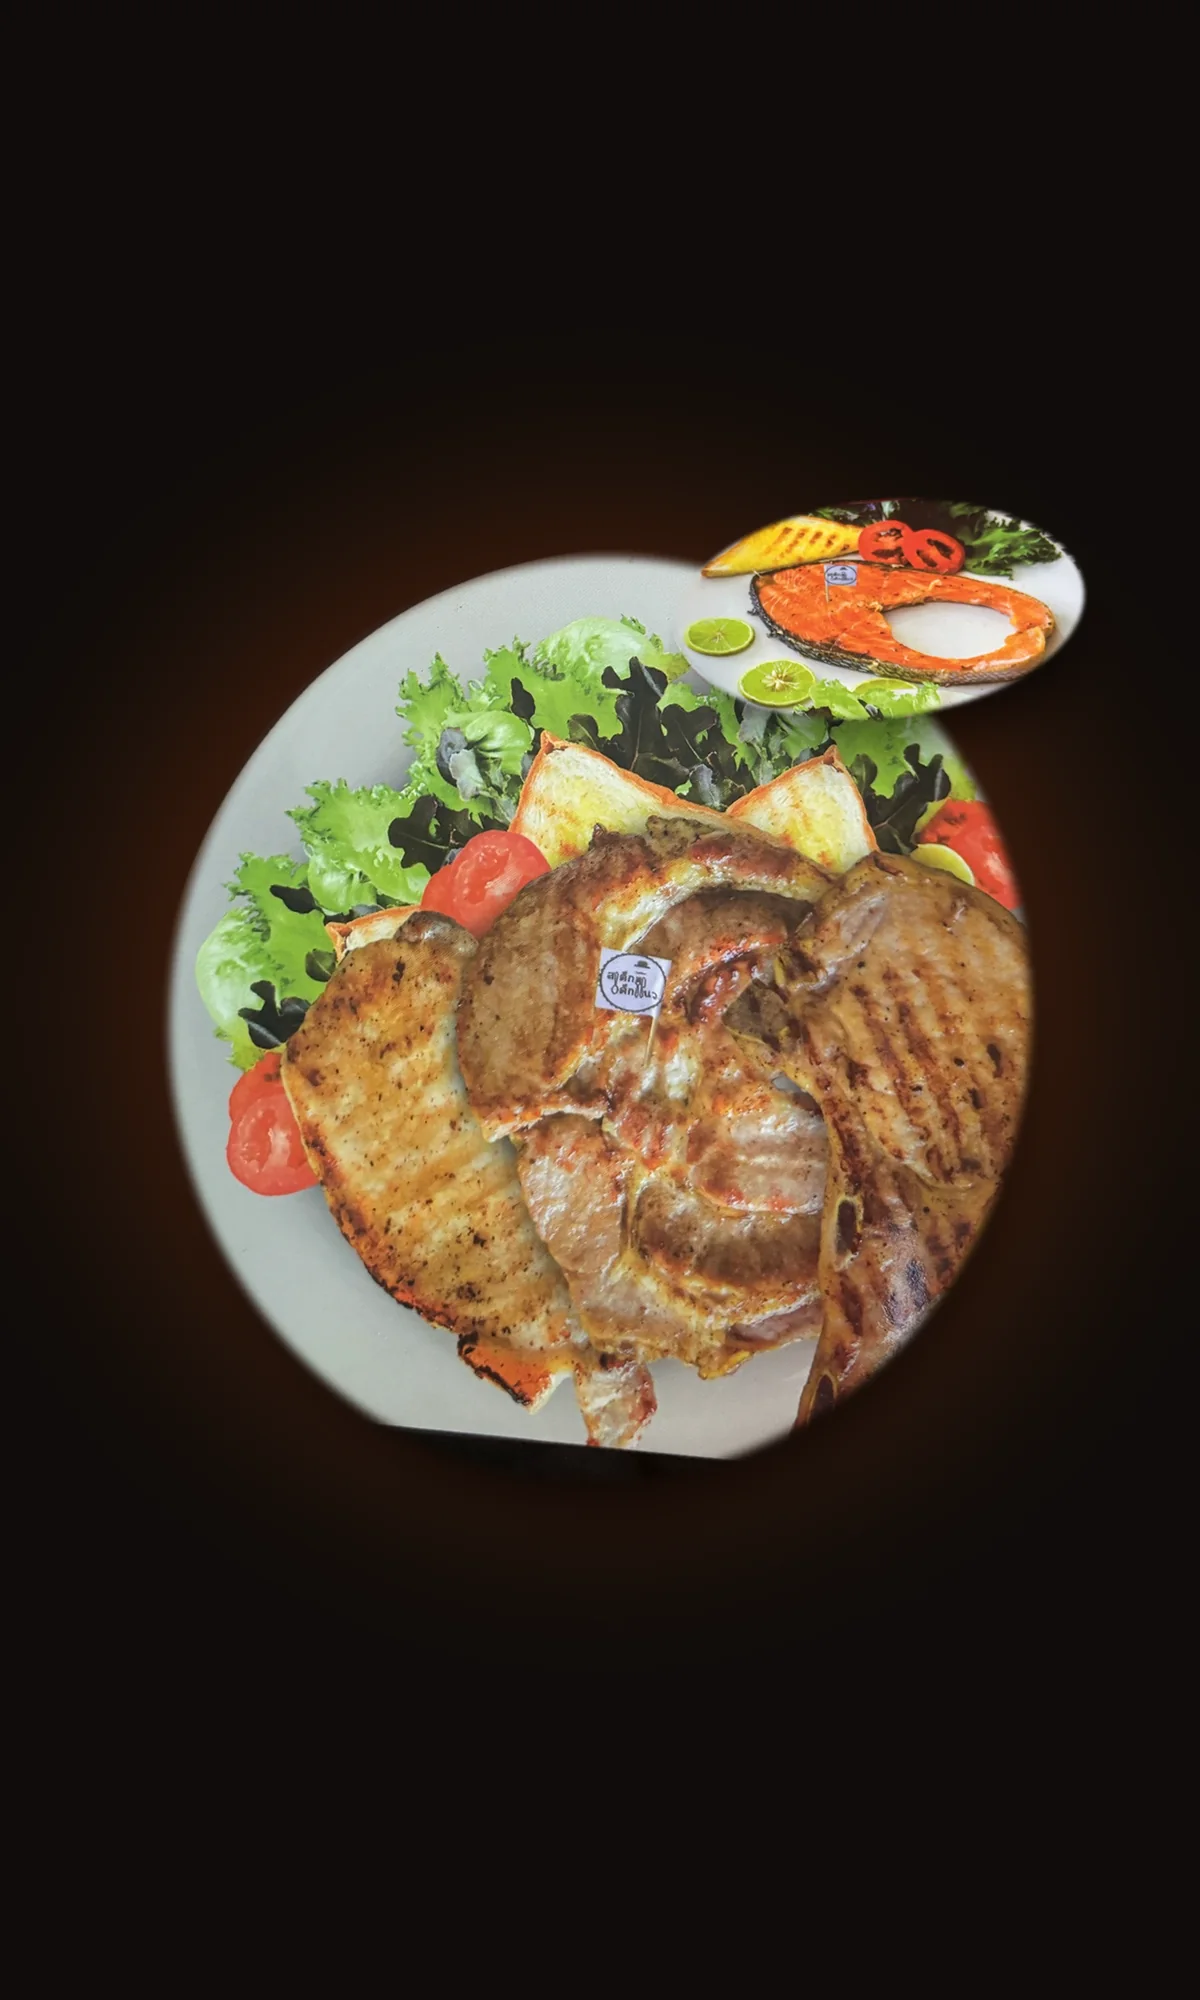
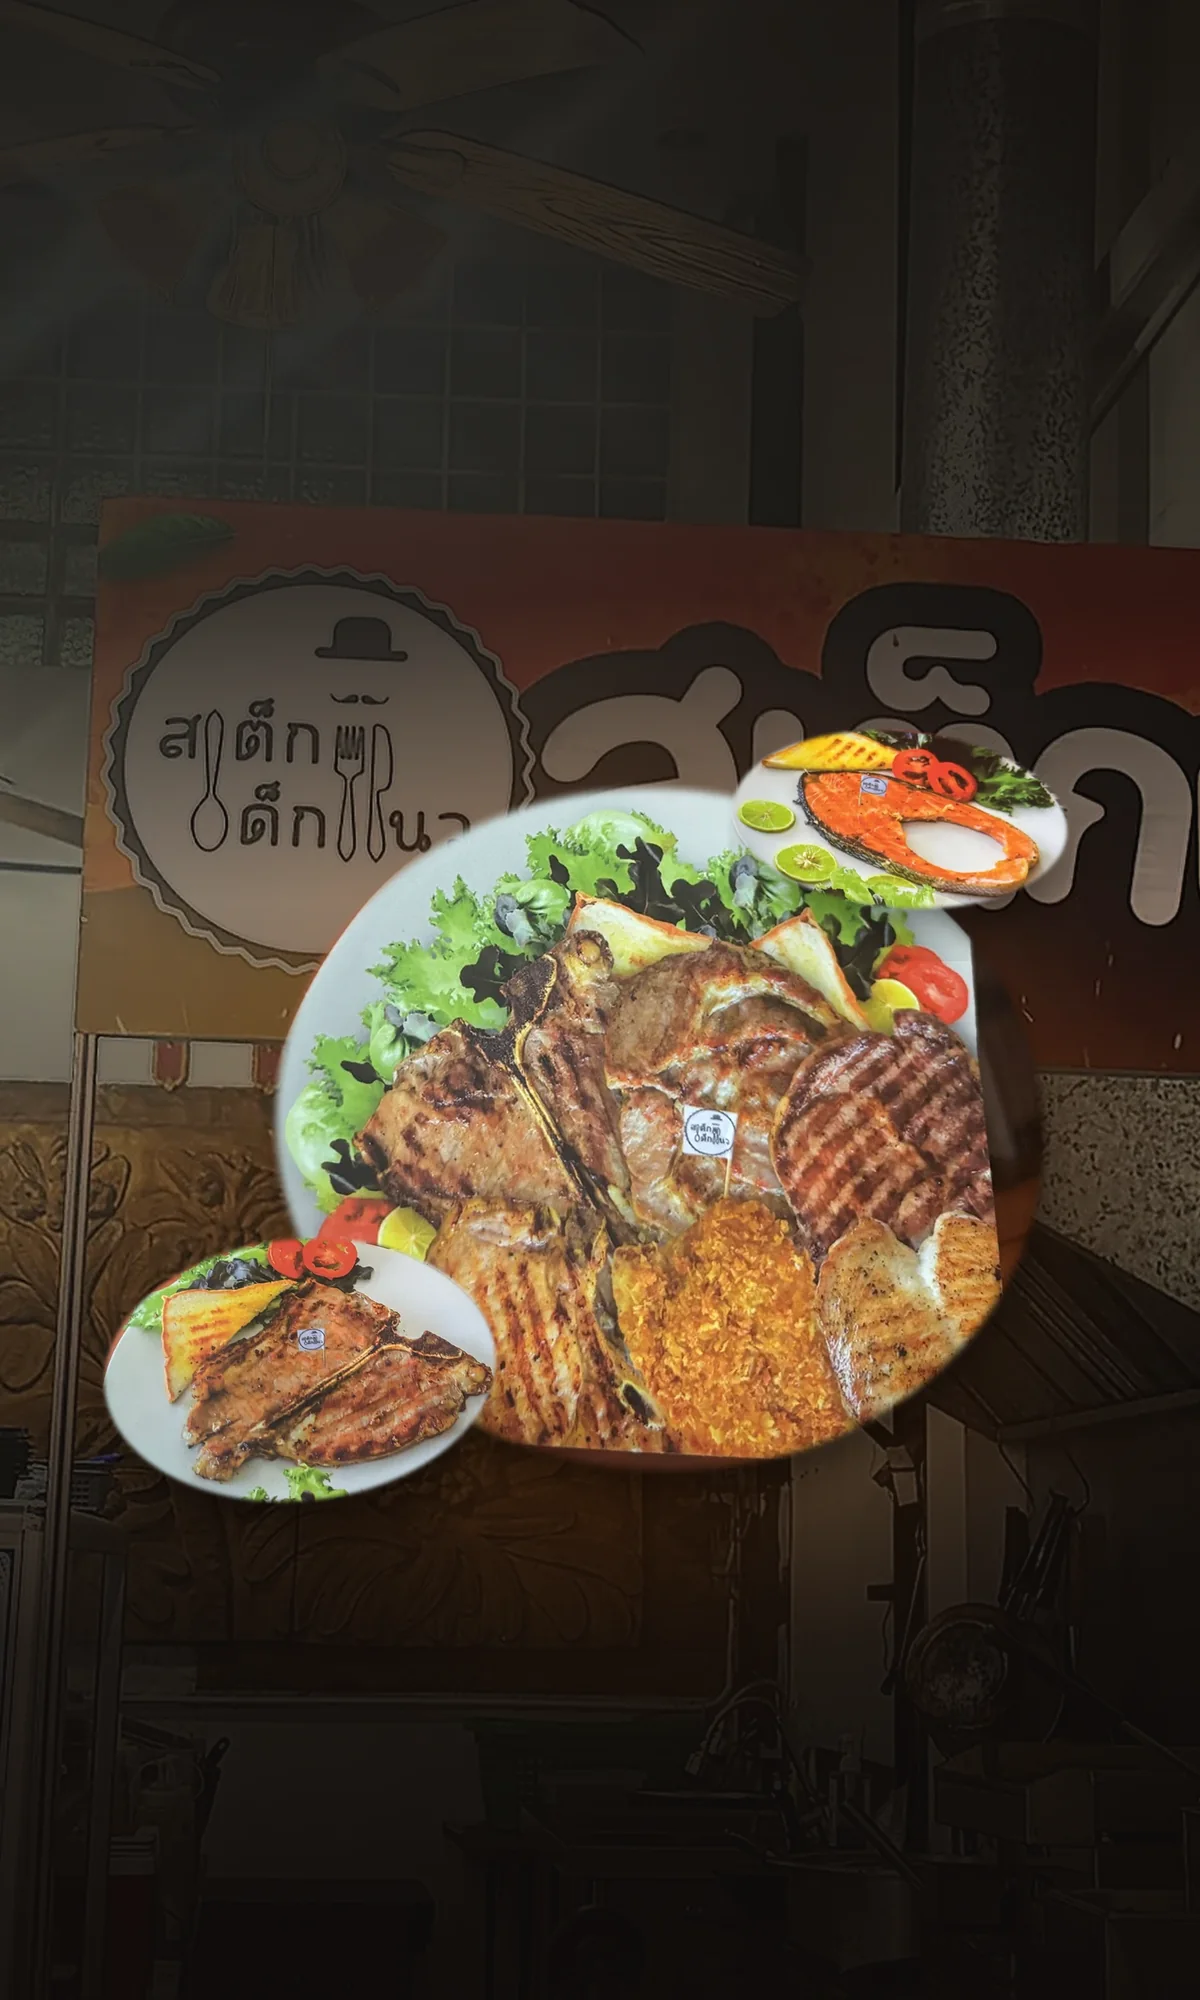
Menu QR Steak Dek Naew : l'écran d'accueil a maintenant la photo du restaurant (panneau visible) en arrière-plan
Claude-Session: https://claude.ai/code/session_01WV7nPzdjJmk8wHCezCdfDM

diff --git a/menus/steak-dek-naew/index.html b/menus/steak-dek-naew/index.html
@@ -8,7 +8,7 @@
 <meta name="color-scheme" content="dark">
 <title>Steak Dek Naew · Menu</title>
 <meta name="description" content="Steak Dek Naew — Steaks, rice dishes & sets. Menu in 9 languages: ไทย, English, 中文, Русский, 한국어, हिन्दी, العربية, Deutsch, Français.">
-<link rel="preload" as="image" href="hero-m.webp?v=2" media="(max-width:760px)" fetchpriority="high">
+<link rel="preload" as="image" href="hero-m.webp?v=3" media="(max-width:760px)" fetchpriority="high">
 <link rel="preconnect" href="https://fonts.googleapis.com">
 <link rel="preconnect" href="https://fonts.gstatic.com" crossorigin>
 <link href="https://fonts.googleapis.com/css2?family=Fraunces:ital,opsz,wght@0,9..144,300;0,9..144,400;0,9..144,500;1,9..144,400&family=Jost:wght@400;500;600;700&family=Noto+Sans+Thai:wght@400;500;600;700&display=swap" rel="stylesheet">
@@ -16,7 +16,7 @@
 </head>
 <body>
 <div id="menu"><noscript><p style="padding:40px 20px;text-align:center">Steak Dek Naew · Menu — please enable JavaScript or ask our staff.</p></noscript></div>
-<script src="menu.js?v=18"></script>
-<script src="../assets/menu.js?v=18"></script>
+<script src="menu.js?v=19"></script>
+<script src="../assets/menu.js?v=19"></script>
 </body>
 </html>

diff --git a/menus/steak-dek-naew/menu.js b/menus/steak-dek-naew/menu.js
@@ -24,8 +24,8 @@ window.NM_MENU = {
  "photoOne": true,
  "photoHD": false,
  "spice": false,
- "heroMobile": "hero-m.webp?v=1",
- "heroWide": "hero.webp?v=1",
+ "heroMobile": "hero-m.webp?v=3",
+ "heroWide": "hero.webp?v=3",
  "tagline": {
   "th": "สเต็กอร่อย ราคาเป็นกันเอง",
   "en": "Steaks, rice dishes & sets",
